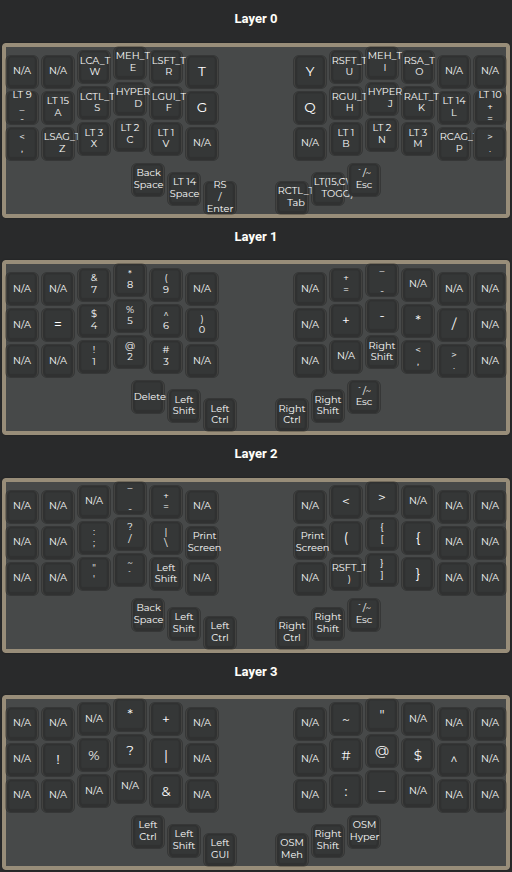
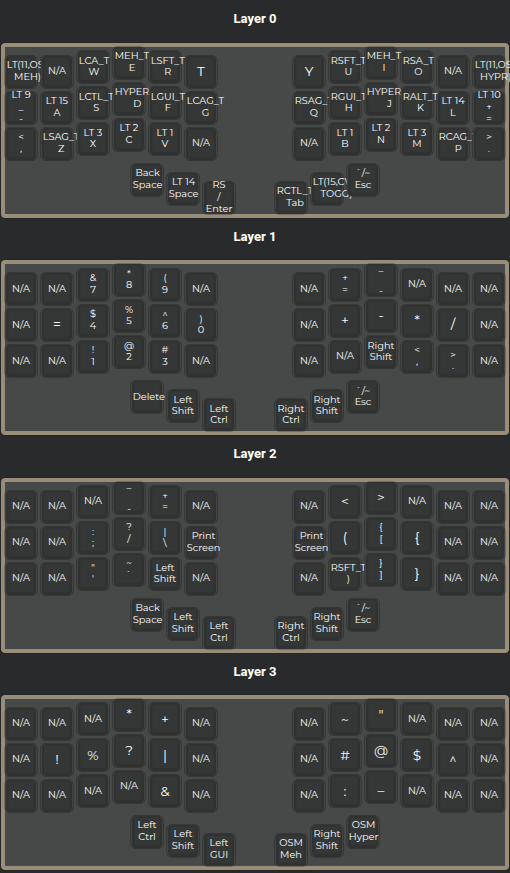
fn full img uf2 json untested/// yay 🧙

diff --git a/README.md b/README.md
@@ -40,6 +40,7 @@ Built with the [QMK Configurator](https://config.qmk.fm/#/beekeeb/piantor_pro/LA
 ![keys&symbols 0-3](src/main-alt1.0-3.png "Base / Symbols Layer")
 ![game5-6](src/main-alt1.5-6.png "Game Layer")
 ![media 9-10](src/main-alt1.9-10.png "Media Layer")
+![fn 11](src/main-alt1.11.png "Function layer")
 ![nav 14-15](src/main-alt1.14-15.png "Navigation Layer")
 
 ### Main